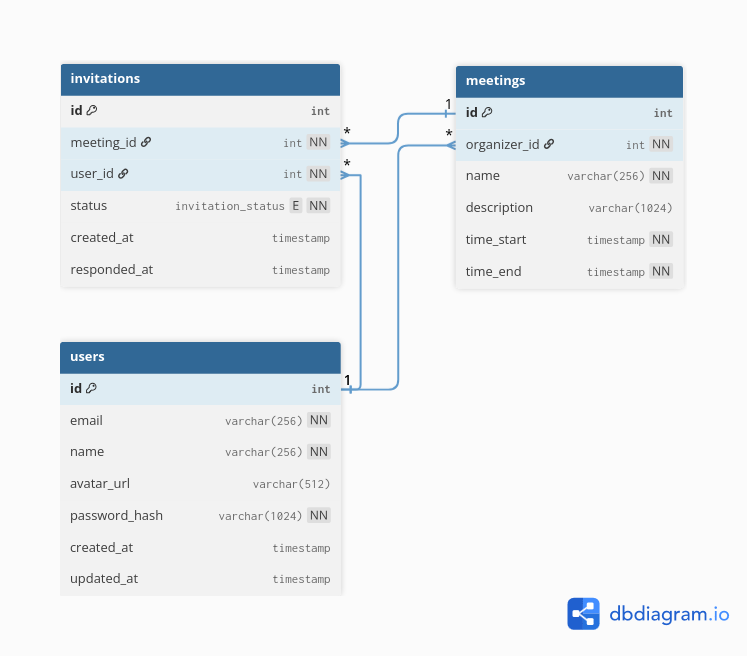
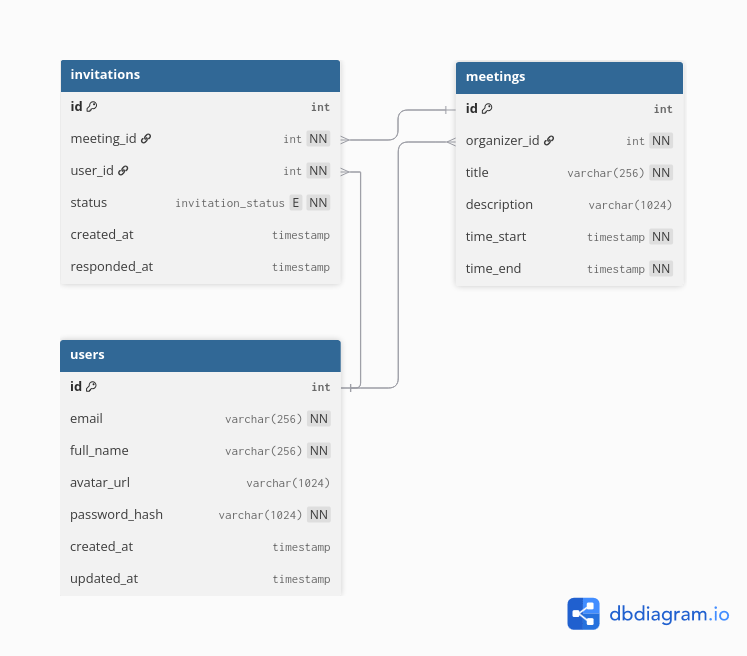
Задание 4

diff --git a/src/main/java/ru/sicampus/bootcamp2026/App.java b/src/main/java/ru/sicampus/bootcamp2026/App.java
@@ -1,7 +1,11 @@
 package ru.sicampus.bootcamp2026;
 
+import org.springframework.boot.SpringApplication;
+import org.springframework.boot.autoconfigure.SpringBootApplication;
+
+@SpringBootApplication
 public class App {
     public static void main(String[] args) {
-
+        SpringApplication.run(App.class, args);
     }
 }
